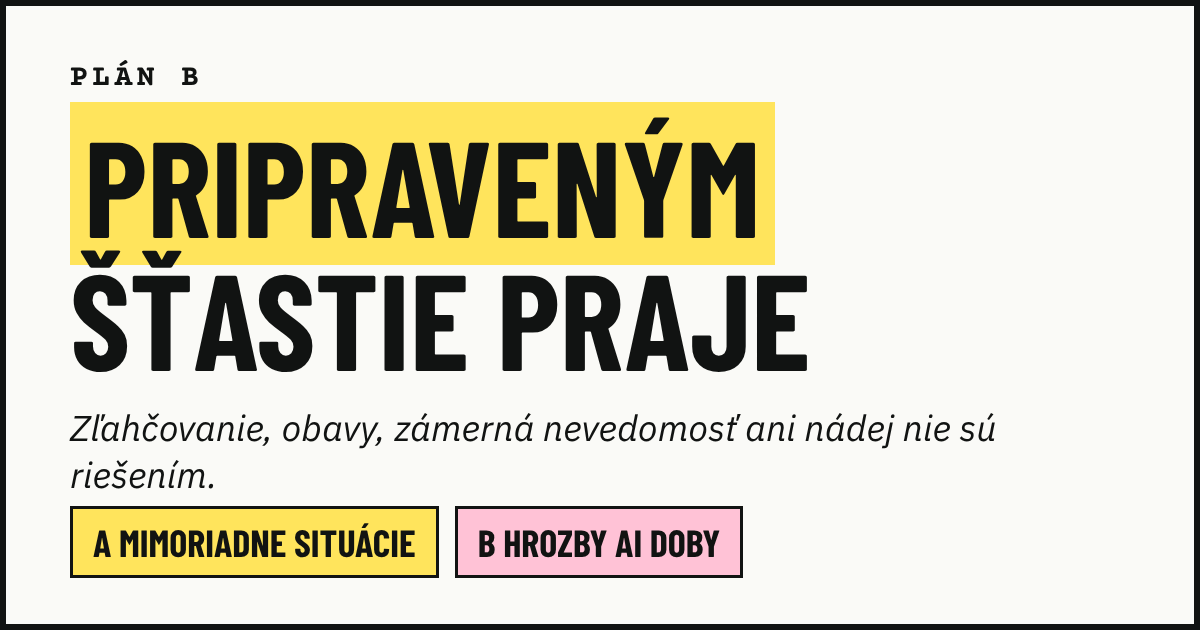
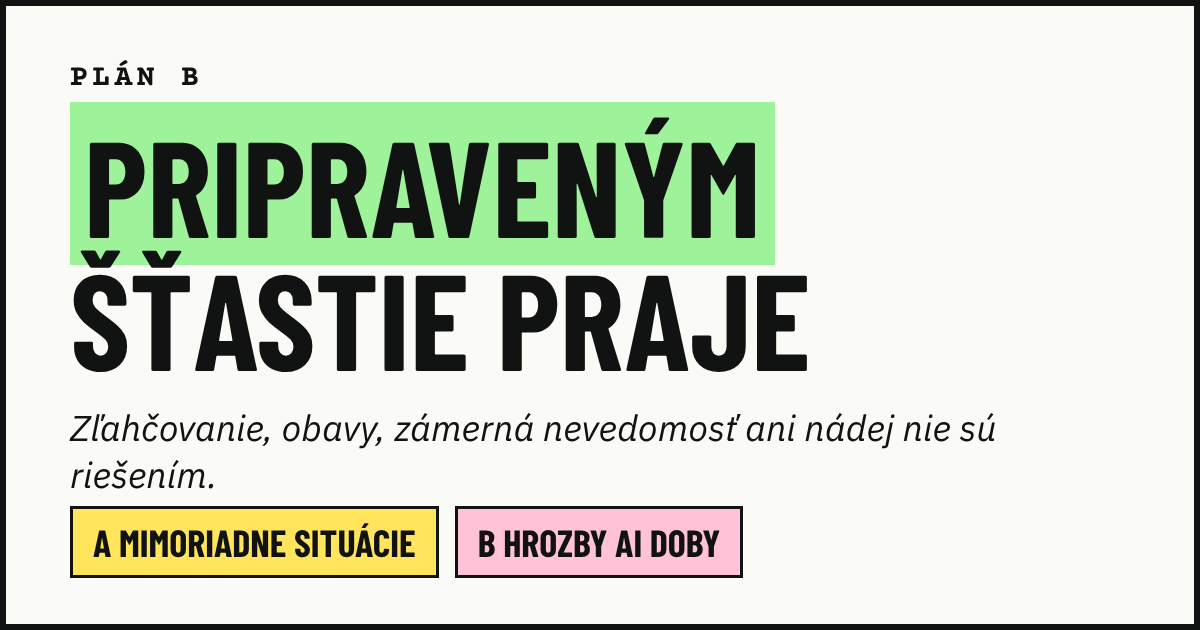
plan-b: highlight Pripraveným in green (page and og-image)
Claude-Session: https://claude.ai/code/session_01ANGM1N2bB3u2zuSpN2Wyh2

Changed region(s): [[0.0308, 0.1508, 0.6475, 0.4222]]

diff --git a/plan-b/index.html b/plan-b/index.html
@@ -225,7 +225,7 @@ function renderNav(){
 }
 function introScreen(){
  var started=answered()>0&&!S.done;
- return '<section class="screen"><div class="lab">Plán B</div><h1 style="margin-top:10px"><span class="hlA">Pripraveným</span> šťastie praje</h1><p class="sub">Alebo: Zľahčovanie, obavy, zámerná nevedomosť ani nádej nie sú riešením.</p>'+
+ return '<section class="screen"><div class="lab">Plán B</div><h1 style="margin-top:10px"><span class="hlG">Pripraveným</span> šťastie praje</h1><p class="sub">Alebo: Zľahčovanie, obavy, zámerná nevedomosť ani nádej nie sú riešením.</p>'+
  '<div class="cards"><button class="pcard A" data-go="partA"><div class="row"><span class="badge">A</span><span class="t">Mimoriadne situácie</span></div><div class="d">Prvých 72 hodín: výpadky, povodeň, sirény.</div></button>'+
  '<button class="pcard B" data-go="partB"><div class="row"><span class="badge">B</span><span class="t">Hrozby AI doby</span></div><div class="d">Heslá, podvody a informácie bez internetu.</div></button></div>'+
  '<button class="btn" id="start">'+(S.done?'Pozrieť výsledok':started?'Pokračovať v teste':'Spustiť test (1 minúta)')+'</button>'+
